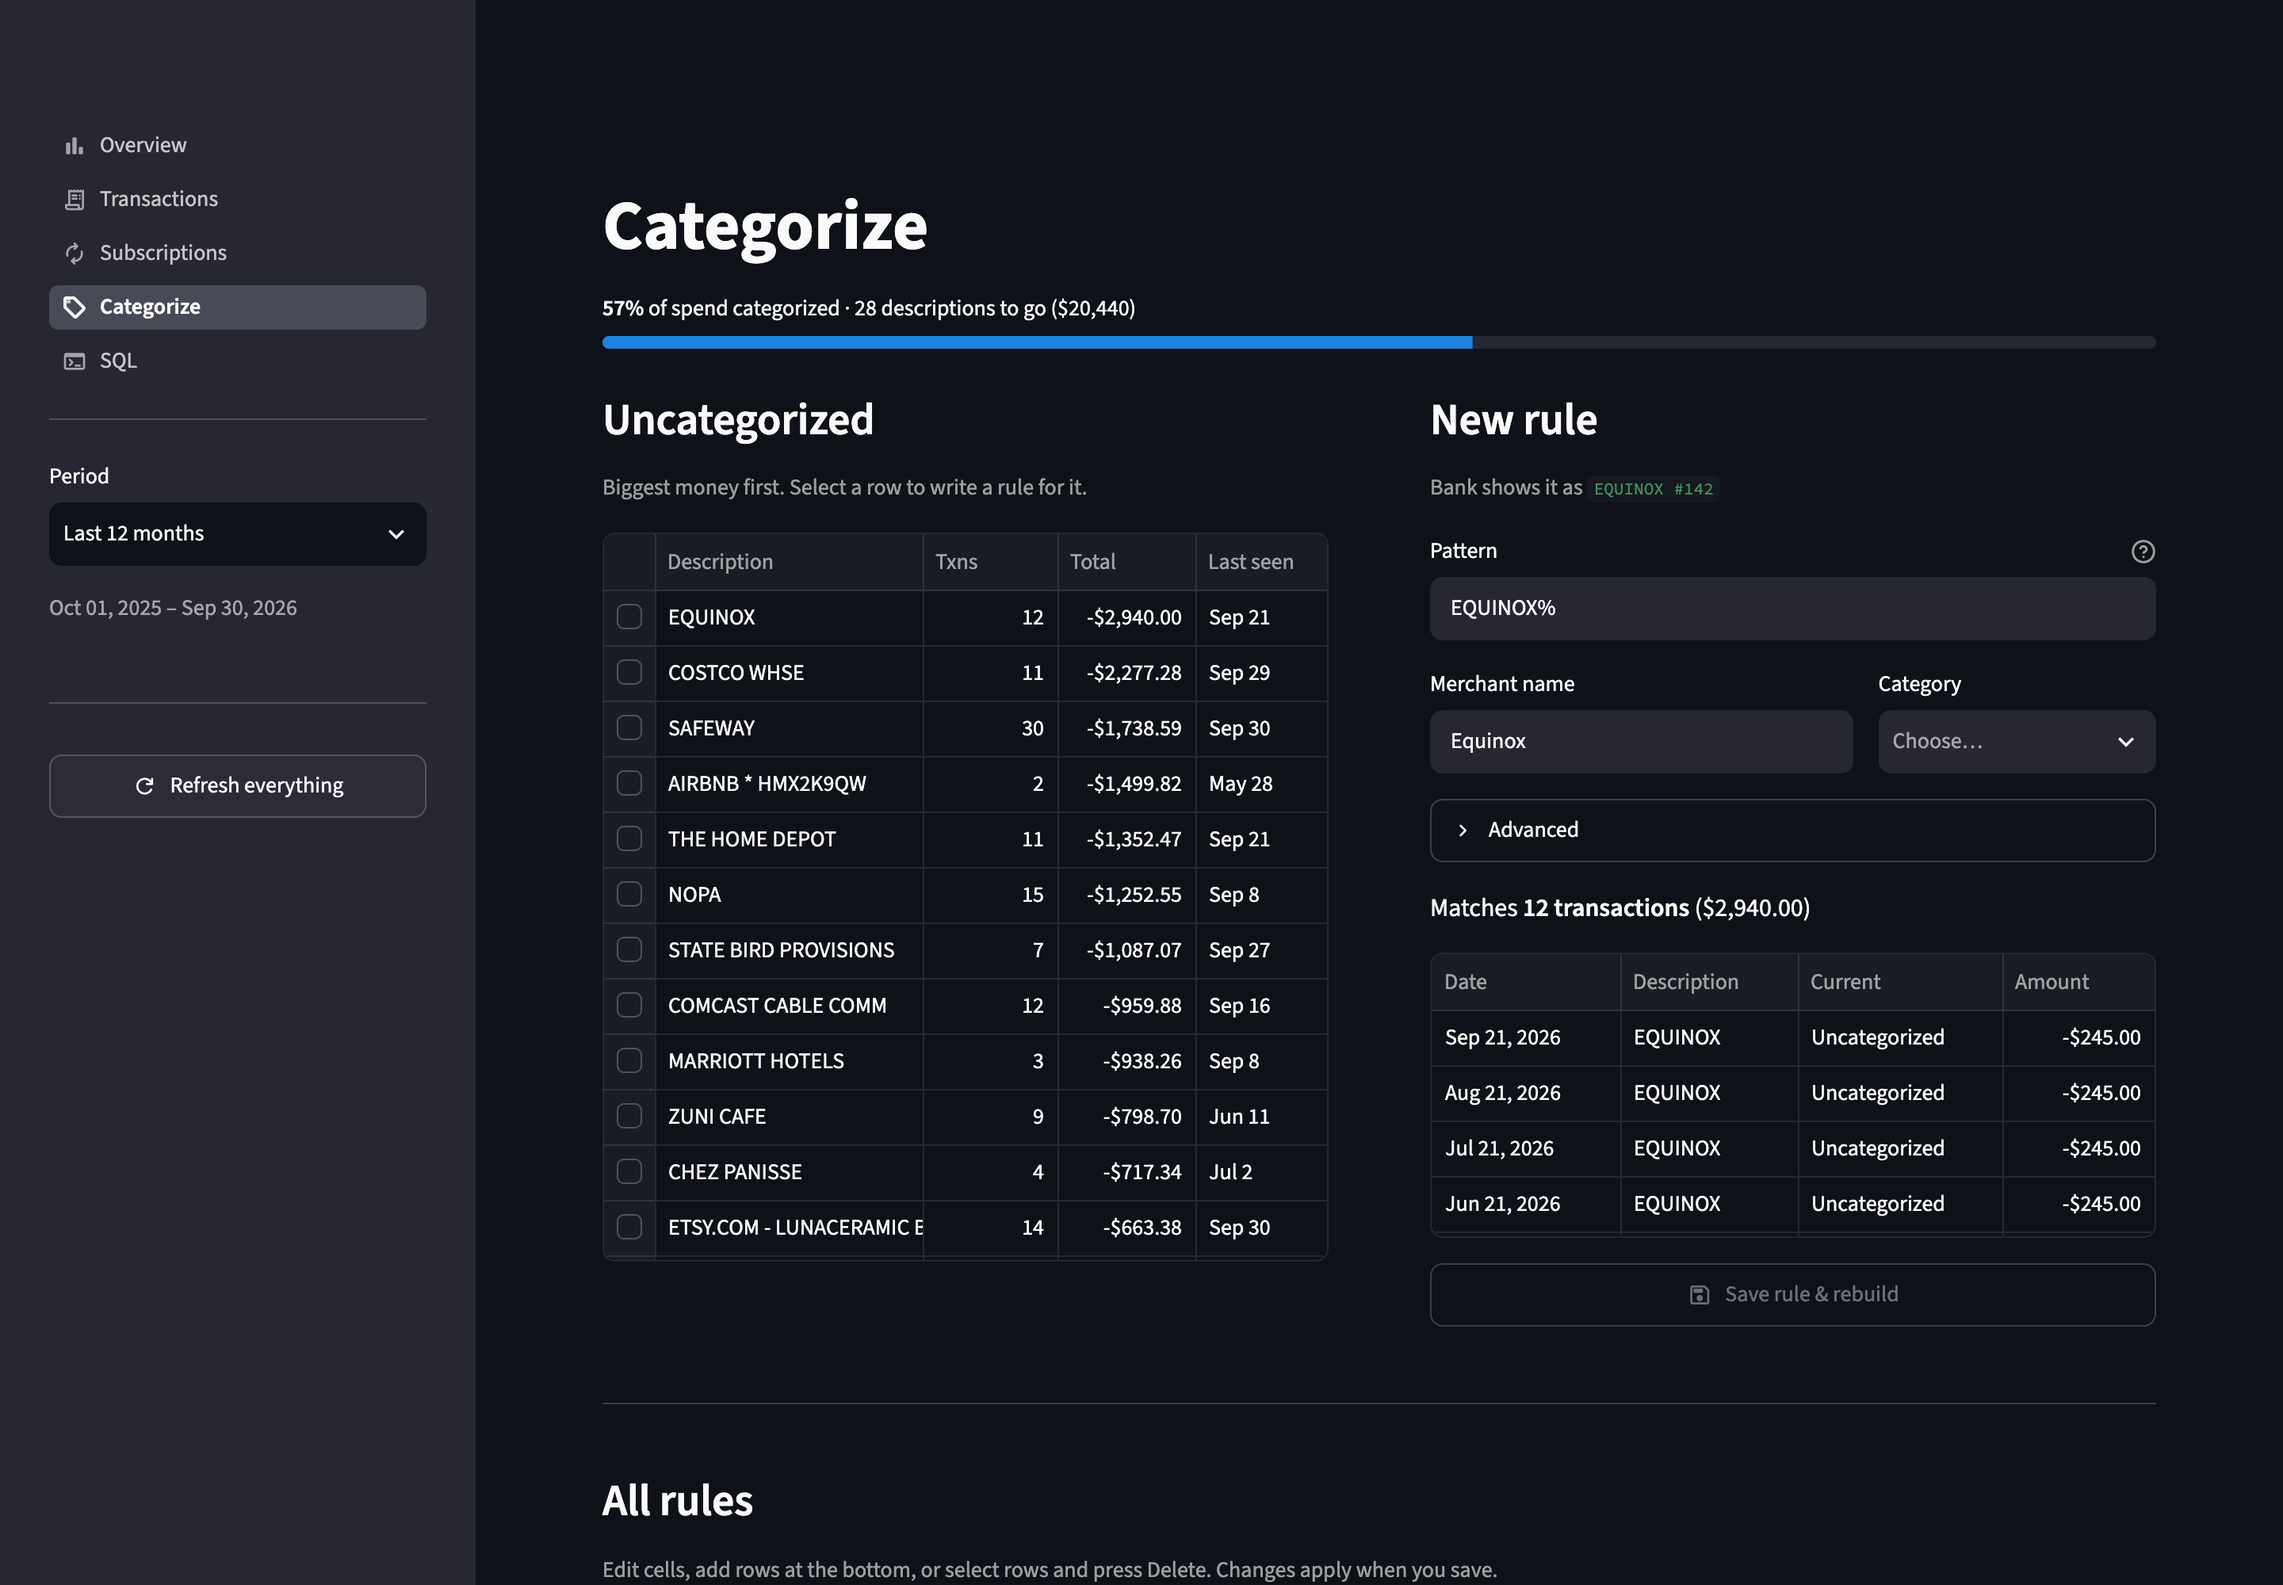
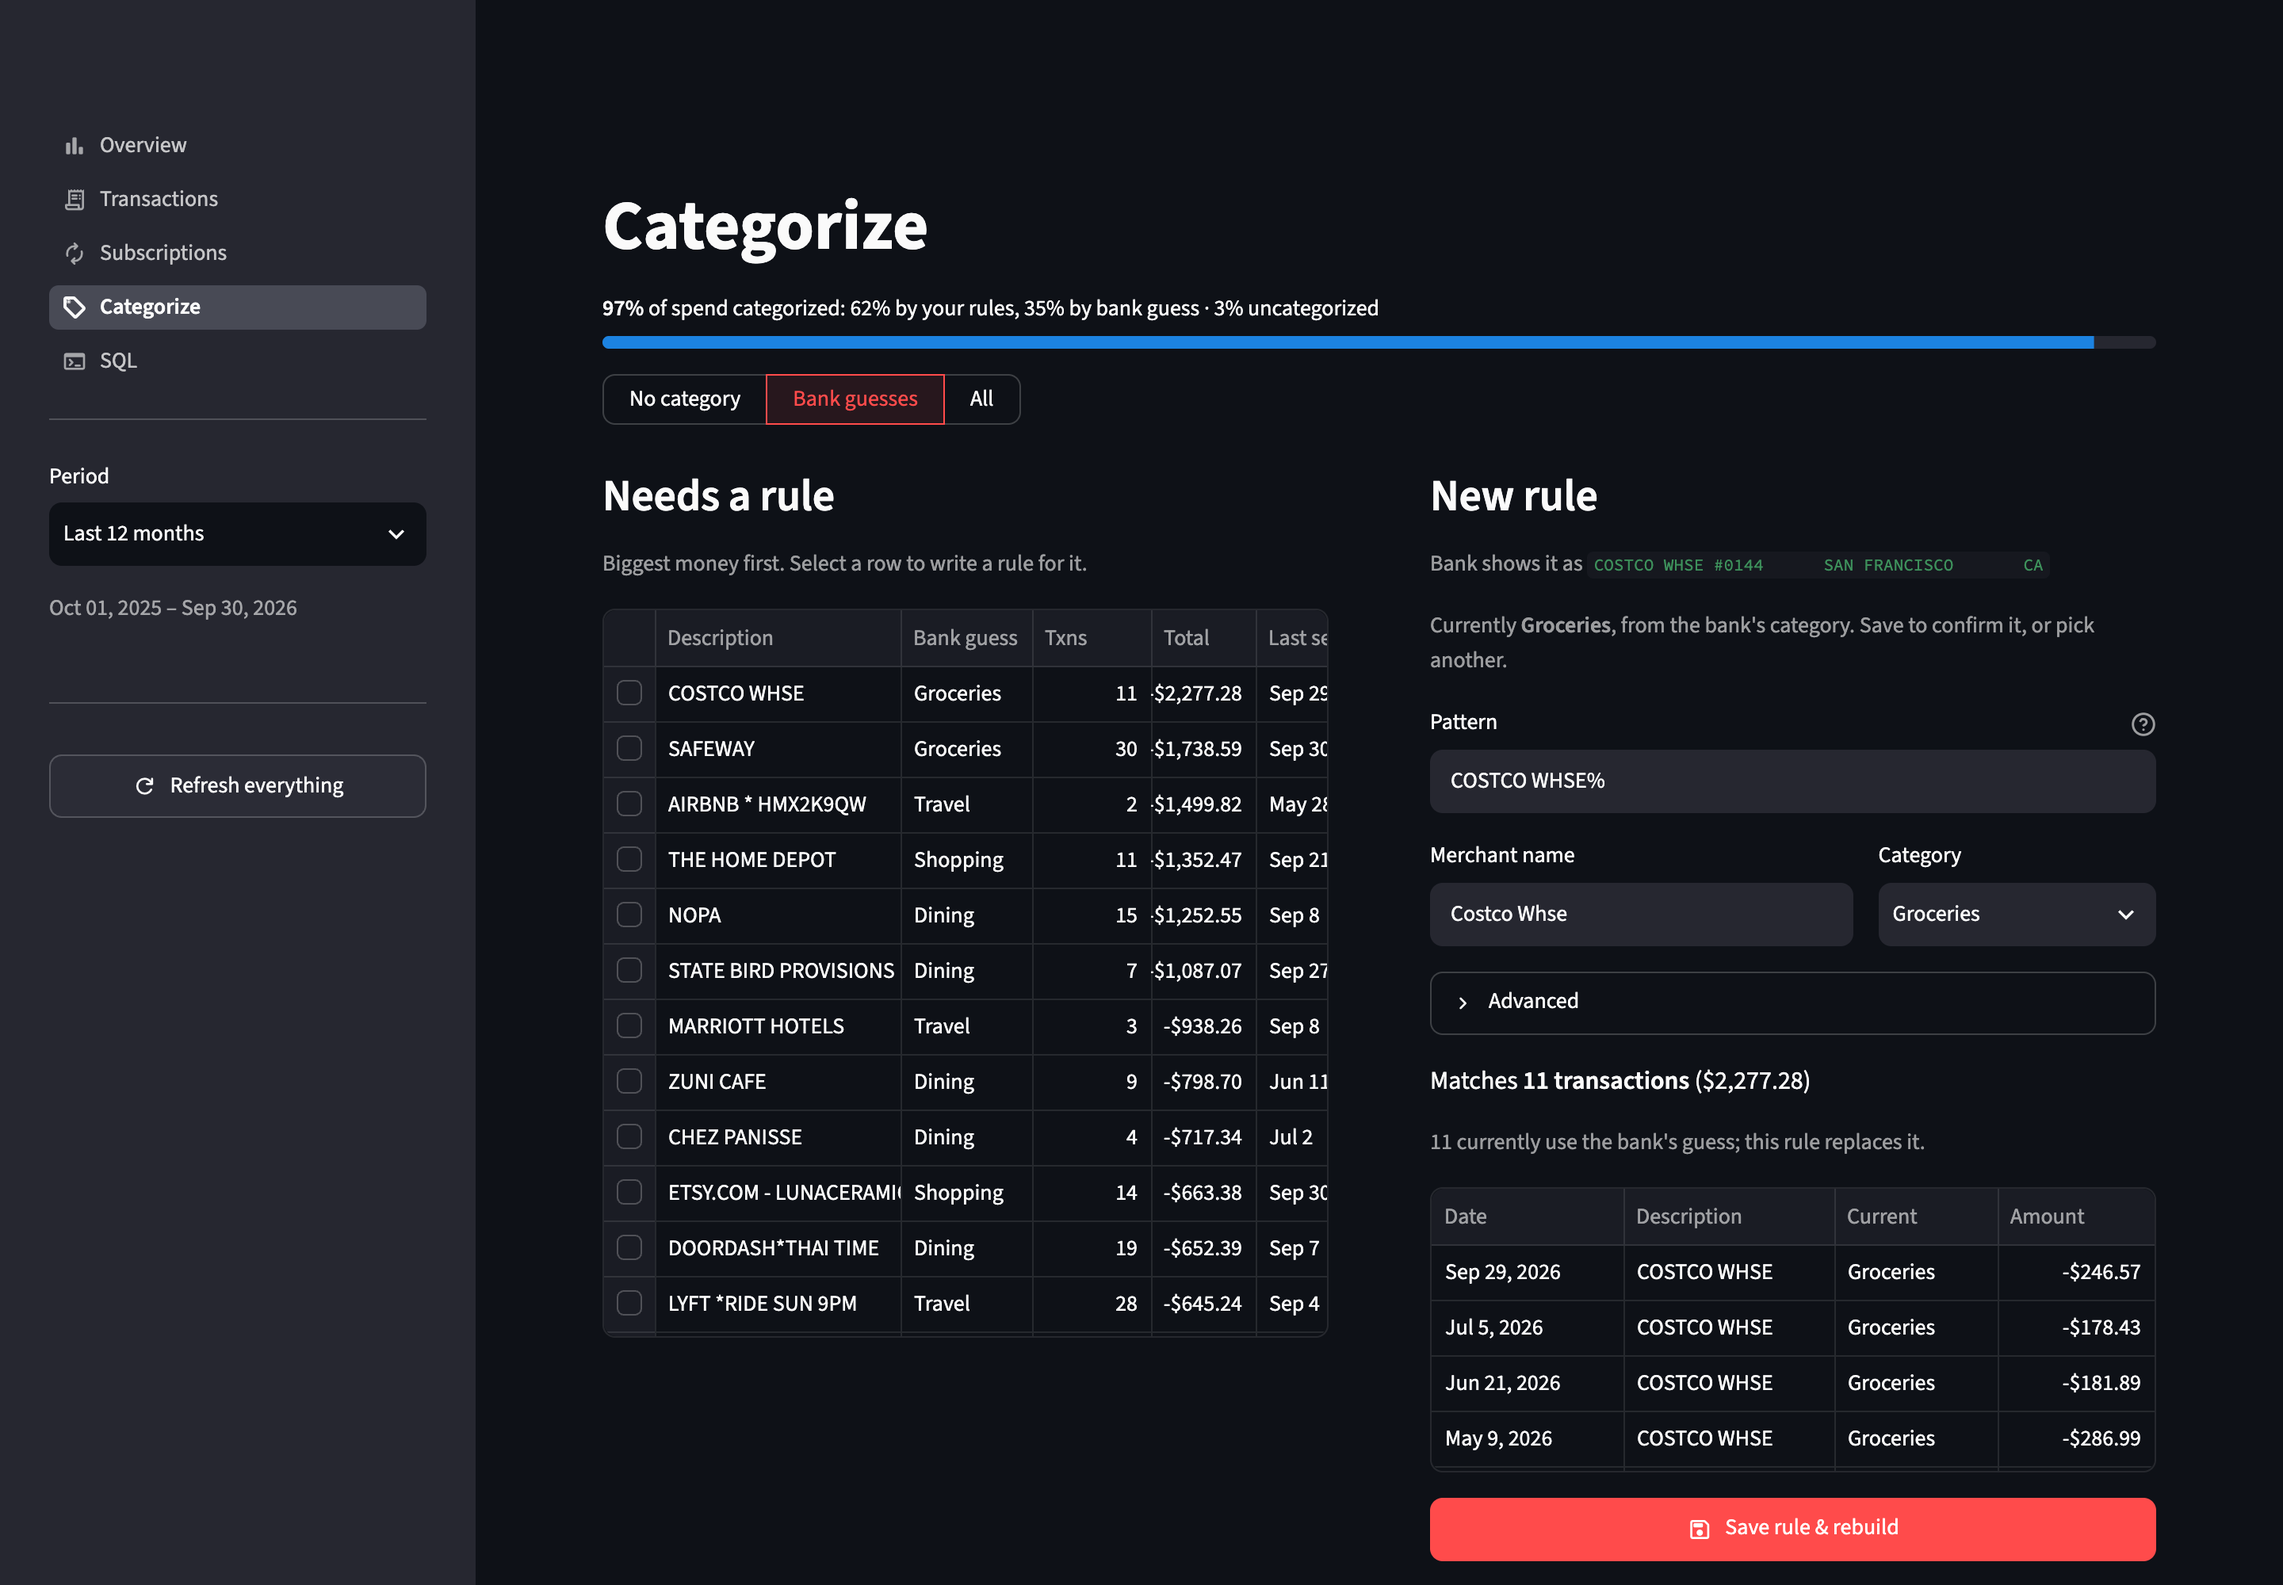
Update README and screenshots for the bank-category fallback
- Retake Overview, Categorize (Bank guesses view), and Subscriptions
  screenshots from the synthetic dummy data
- Describe rule vs. bank-guess categorization and the new Categorize
  workflow; list the category_source test

diff --git a/README.md b/README.md
@@ -21,8 +21,9 @@ however they like. I wanted something I could trust and correct:
 - **My data stays on my machine.** Bank CSV exports go in, and a single
   DuckDB file comes out.
 - **Categorization I can read.** Every category comes from a rule in a
-  CSV file. I can see why a transaction landed where it did, and fixing
-  it is a one-line change.
+  CSV file, or, until I write one, from the bank's own label, and each
+  transaction says which. I can see why a transaction landed where it
+  did, and fixing it is a one-line change.
 - **A real data stack in miniature.** It's a weekend-sized project that
   uses the same ingestion, transformation, and testing patterns you'd
   use on a production warehouse.
@@ -35,7 +36,7 @@ however they like. I wanted something I could trust and correct:
 | **Cleans and categorizes** | Strips the noise from bank descriptions (`SQ *BLUE BOTTLE COFFEE` → `BLUE BOTTLE COFFEE`, `WHOLEFDS MKT 10234` → `WHOLEFDS MKT`), then applies prioritized merchant rules. Anything without a rule falls back to the bank's own category. |
 | **Understands money flows** | Normalizes every bank to one sign convention, and pairs card payments with the checking withdrawals that paid them, so paying a card isn't counted as spending twice. |
 | **Finds subscriptions** | Flags charges that recur monthly for a near-constant amount, and shows what's due in the next week and what looks cancelled. |
-| **Categorizes interactively** | Pick an uncategorized merchant, preview exactly which transactions a rule would catch, save, and the warehouse rebuilds. |
+| **Categorizes interactively** | Pick a merchant with no rule, preview exactly which transactions a rule would catch, save, and the warehouse rebuilds. Bank guesses come prefilled, so confirming one is a click. |
 | **Protects itself** | Refreshes build on a copy and swap in only if every data test passes. A pre-commit hook blocks financial data from ever reaching git. |
 
 <table>
@@ -44,7 +45,7 @@ however they like. I wanted something I could trust and correct:
 <td><img src="docs/images/subscriptions.png" alt="Subscriptions page"></td>
 </tr>
 <tr>
-<td align="center"><sub>Categorize: write a rule with a live preview</sub></td>
+<td align="center"><sub>Categorize: confirm a bank guess or write a rule, with a live preview</sub></td>
 <td align="center"><sub>Subscriptions: recurring charges and renewals</sub></td>
 </tr>
 </table>
@@ -240,10 +241,17 @@ pixi run app             # opens http://localhost:8501; click "Load"
    ```
 3. **Open the app** (`pixi run app`). New files show up in a banner at
    the top of every page. Click **Load**.
-4. **Categorize.** The Categorize page lists uncategorized merchants by
-   the most money first. Each rule you save rebuilds the warehouse and
-   moves the progress bar. A dbt warning nags until less than 5% of
-   spending is uncategorized.
+4. **Categorize.** Most transactions arrive already categorized from the
+   bank's own labels. The Categorize page shows how much of your
+   spending comes from your rules, from bank guesses, or neither, and
+   lists every merchant without a rule, most money first:
+   - **No category:** no rule and no bank label. Write a rule.
+   - **Bank guesses:** the guess is prefilled. Save to confirm it, or
+     pick another category.
+
+   Each save rebuilds the warehouse. A dbt warning nags until less than
+   5% of spending is uncategorized. To change what a bank label maps to,
+   edit `transform/seeds/bank_category_map.csv`.
 
 Keep rules impersonal, since the seed CSVs are committed. Write
 `ZELLE PAYMENT TO LANDLORD%`, not your landlord's name.
@@ -303,7 +311,8 @@ tests/                        parser unit tests + synthetic fixtures
 |---|---|
 | `unique` / `not_null` on `txn_id` | a deduplication regression |
 | `relationships` on `account_key` | a statements folder with no `accounts.csv` row |
-| `relationships` on `category` | a rule pointing at a category that doesn't exist |
+| `relationships` on `category` | a rule or bank mapping pointing at a category that doesn't exist |
+| `accepted_values` on `category_source` | a transaction categorized by anything other than `rule`, `bank`, or `none` |
 | `assert_card_payments_are_inflows` | a bank's sign convention flipped |
 | `assert_transfers_are_matched` (warn) | a payment whose other side isn't exported yet |
 | `assert_uncategorized_spend_under_5pct` (warn) | rules left to write |
